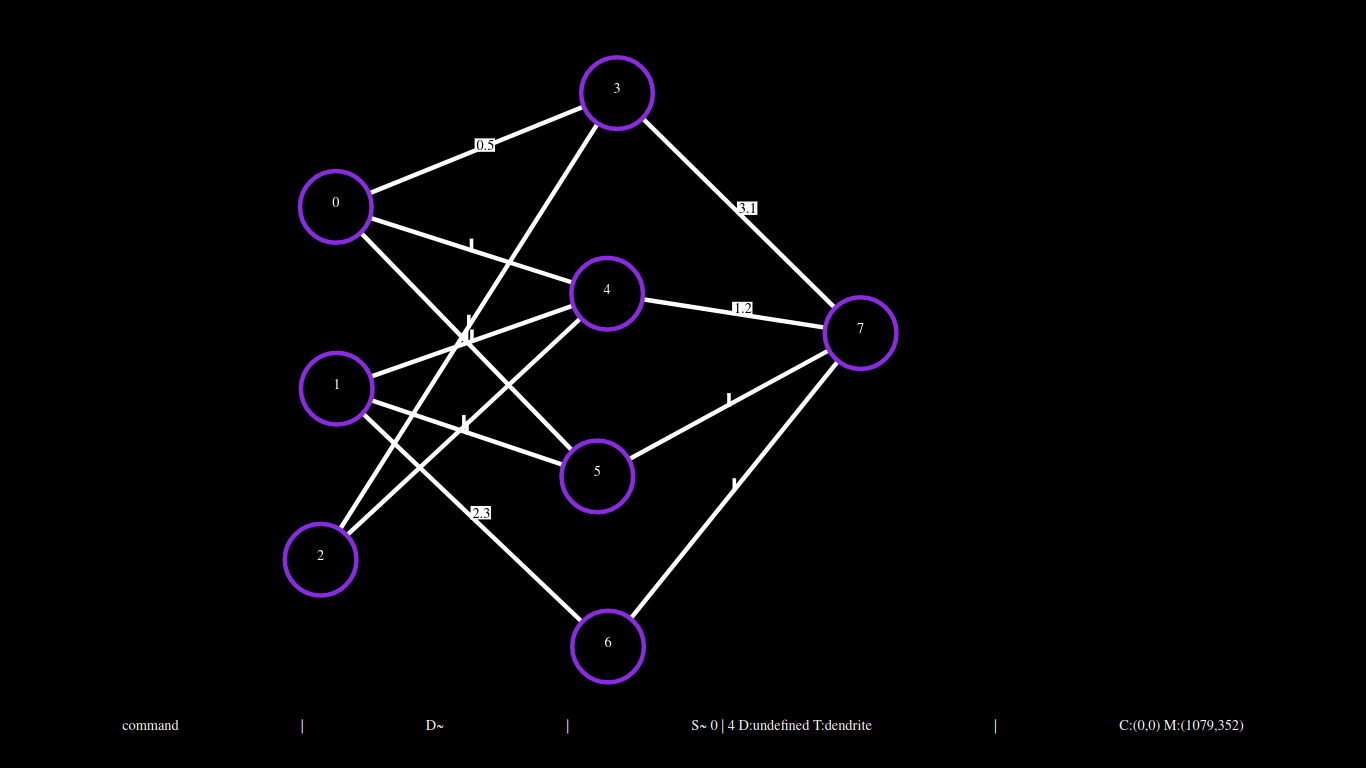
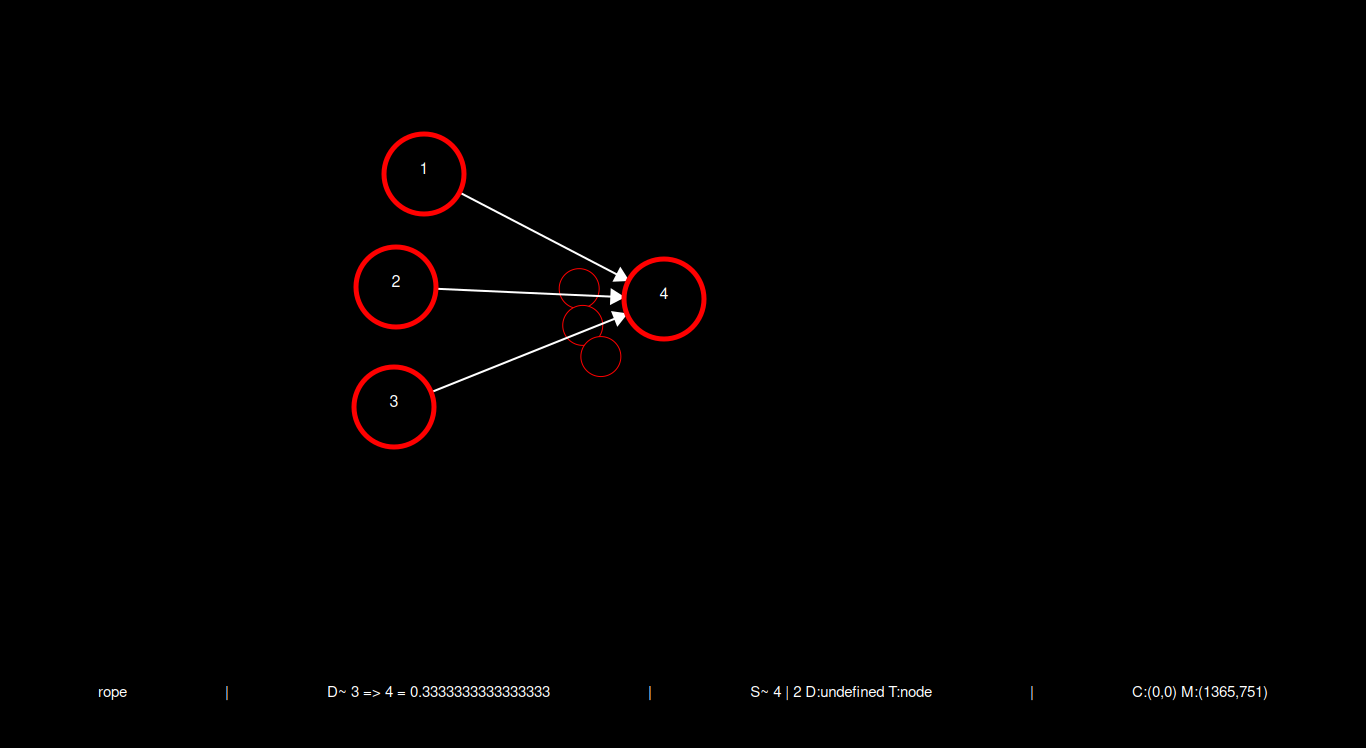
:)

diff --git a/src/App.svelte b/src/App.svelte
@@ -31,8 +31,8 @@
   let rdendrite_map:{[key:string]:rdendrite} = {};
   let neurons = {};
   let update = false;
-  let next_node_id = 0;
-  let next_line_id = 0;
+  let next_node_id = 1;
+  let next_line_id = 1;
 
   $: ifocus(inputBox);
   dp();
@@ -63,8 +63,8 @@
      rdendrite_map= {};
      neurons = {};
      update = false;
-     next_node_id = 0;
-     next_line_id = 0;
+     next_node_id = 1;
+     next_line_id = 1;
   }
 
   //TODO: write load for .ddb file too and store it as a part of .nz file (test case... delete panna proper ah aganum)
@@ -106,8 +106,8 @@
       rdendrite_map[next_line_id] = new rdendrite(next_line_id,a,0);
       neurons[a].out.push(b);
       neurons[b].in.push(a);
-      neuron_map[a].t_term.push(b);
-      neuron_map[b].r_term.push(a);
+      neuron_map[a].t_term.push(next_line_id);
+      neuron_map[b].r_term.push(next_line_id);
       neurons[a].dnd.push(next_line_id);
       neurons[b].dnd.push(next_line_id);
       next_line_id +=1;
@@ -144,7 +144,7 @@
       let data = "";
       for (const [_,value] of Object.entries(neuron_map)){
           let t_term = "["+value.t_term.join(",").toString()+"]"
-          let r_term = "["+value.t_term.join(",").toString()+"]";
+          let r_term = "["+value.r_term.join(",").toString()+"]";
           let nstr = value.id.toString()+":"+value.value+":"+t_term+":"+r_term
           data+="|"+nstr;
       }
@@ -194,6 +194,10 @@
   function handleMouseUp() {
     console.log("mouse up");
     isDragging = false;
+    if (inputBox!=null){
+      inputBox.focus();
+    }
+
   }
 
   function handleClick(){
@@ -334,10 +338,11 @@
         $selNode = undefined;
       }
       if ($mode==="edit_dendrite"){
-        lines[$selDendrite].data = $inputValue;
-        lines_data_info[$selDendrite] = $inputValue;
-        tdendrite_map[$selDendrite].weight = parseFloat($inputValue);
-        rdendrite_map[$selDendrite].weight = parseFloat($inputValue);
+        let value = parseFloat(eval($inputValue));
+        lines[$selDendrite].data = value.toString();
+        lines_data_info[$selDendrite] = value;
+        tdendrite_map[$selDendrite].weight = value;
+        rdendrite_map[$selDendrite].weight = value;
         console.log("ival:",$inputValue);
         $mode = "command"
         divv.focus();
@@ -394,8 +399,8 @@
     //updating neural network
     neurons[$preSelNode].out.push($selNode);
     neurons[$selNode].in.push($preSelNode);
-    neuron_map[$preSelNode].t_term.push($selNode);
-    neuron_map[$selNode].r_term.push($preSelNode);
+    neuron_map[$preSelNode].t_term.push(next_line_id);
+    neuron_map[$selNode].r_term.push(next_line_id);
     //to manipulate dendrites later (delete)
     neurons[$preSelNode].dnd.push(next_line_id);
     neurons[$selNode].dnd.push(next_line_id);
@@ -434,7 +439,7 @@
     color: white;
     width: 100%;
     margin: 15px;
-    font-size: 20px;
+    font-size: 15px;
   }
   input:focus {
     border:none;
@@ -447,17 +452,17 @@
     justify-content: center;
     height:fit-content;
     width:99%;
-    bottom:60px;
+    bottom:0px;
   }
   .infoBar{
     display: flex;
     height:fit-content;
-    bottom:20px;
     justify-content: space-evenly;
+    bottom:30px;
   }
   p{
     color:white;
-    font-size:16px;
+    font-size:15px;
   }
 </style>
 

diff --git a/src/Dendrite.svelte b/src/Dendrite.svelte
@@ -1,6 +1,7 @@
 <script lang="ts">
   import {mode} from "./store";
   import type dendrite from "./dendrite";
+  import { hData } from "./store";
   import { coords } from "./store";
   import { selDendrite } from "./store";
   import { nodeClick } from "./store";
@@ -14,8 +15,25 @@
 
   $: y1 = line.node1.y
   $: y2 = line.node2.y
-  $: x3 = (x1+x2)/2
-  $: y3 = (y1+y2)/2
+  /* $: x3 = (x1+x2)/2 */
+  /* $: y3 = (y1+y2)/2 */
+
+  const arrowSize = 17;
+  const offset = 39;
+
+  let rect_offset = 80;
+  let yoffset = 30;
+  $: cirx = x2 - rect_offset * Math.cos(angle) + $coords.x + yoffset * Math.cos(angle+ Math.PI/2 );
+  $: ciry = y2 - rect_offset * Math.sin(angle) + $coords.y + yoffset * Math.sin(angle+ Math.PI/2 );
+
+  $: angle = Math.atan2(y2 - y1, x2 - x1);
+  $: arrowX1 = x2 - offset * Math.cos(angle) + $coords.x;
+  $: arrowY1 = y2 - offset * Math.sin(angle) + $coords.y ;
+
+  $: arrow1X2 = arrowX1 - arrowSize * Math.cos(angle - Math.PI / 6) ;
+  $: arrow1Y2 = arrowY1 - arrowSize * Math.sin(angle - Math.PI / 6) ;
+  $: arrow2X2 = arrowX1 - arrowSize * Math.cos(angle + Math.PI / 6) ;
+  $: arrow2Y2 = arrowY1 - arrowSize * Math.sin(angle + Math.PI / 6) ;
 
   function measureText(text,textSize) {
     let span = document.createElement('span');
@@ -50,14 +68,18 @@
 
 
 </script>
+
 <style>
   line{
-    stroke-width: 5px;
+    stroke-width: 2px;
     stroke: white;
   }
-  text{
-    margin:0;
+  circle{
+    stroke: red;
+    fill: #000000;
+    /* stroke-width:5px; */
   }
+  
 </style>
 
 <line 
@@ -66,29 +88,33 @@
   x2={x2+$coords.x}
   y2={y2+$coords.y} 
   data-value={index}
-  on:click={onClickDendrite}
+  on:mousedown={onClickDendrite}
   on:dblclick={handleDblClickDendrite}
+  on:mouseover={()=>{$hData=line.node1.data+" => "+line.node2.data+" = "+line.data}}
+  on:focus={()=>{}}
   on:keypress={()=>{}}
   />
 
-<rect 
-  x = {(x3 + $coords.x)-2}
-  y = {y3 + $coords.y -13}
-  width = {measureText(line.data,15)+4} height = 15 
+<polygon 
+  points=
+  "{arrowX1},{arrowY1} 
+  {arrow1X2},{arrow1Y2}
+  {arrow2X2},{arrow2Y2}" 
   data-value={index}
   on:mousedown={onClickDendrite}
   on:dblclick={handleDblClickDendrite}
   on:keypress={()=>{}}
-  fill = white/>
+  on:mouseover={()=>{$hData=line.node1.data+" => "+line.node2.data+" = "+line.data}}
+  on:focus={()=>{}}
+  fill="white" />
 
-<text 
-  x = {((line.node1.x+line.node2.x)/2 + $coords.x)}
-  y = {(line.node1.y+line.node2.y)/2 + $coords.y}
+<circle 
+  cx = {cirx}
+  cy = {ciry}
   data-value={index}
   on:mousedown={onClickDendrite}
   on:dblclick={handleDblClickDendrite}
   on:keypress={()=>{}}
-  >
-{line.data}
-</text>
-
+  on:mouseover={()=>{$hData=line.node1.data+" => "+line.node2.data+" = "+line.data}}
+  on:focus={()=>{}}
+  r = "20" />

diff --git a/src/Node.svelte b/src/Node.svelte
@@ -40,7 +40,7 @@
 </script>
 <style>
   circle{
-    stroke: blueviolet;
+    stroke: red;
     fill: #000000;
     stroke-width:5px
   }
